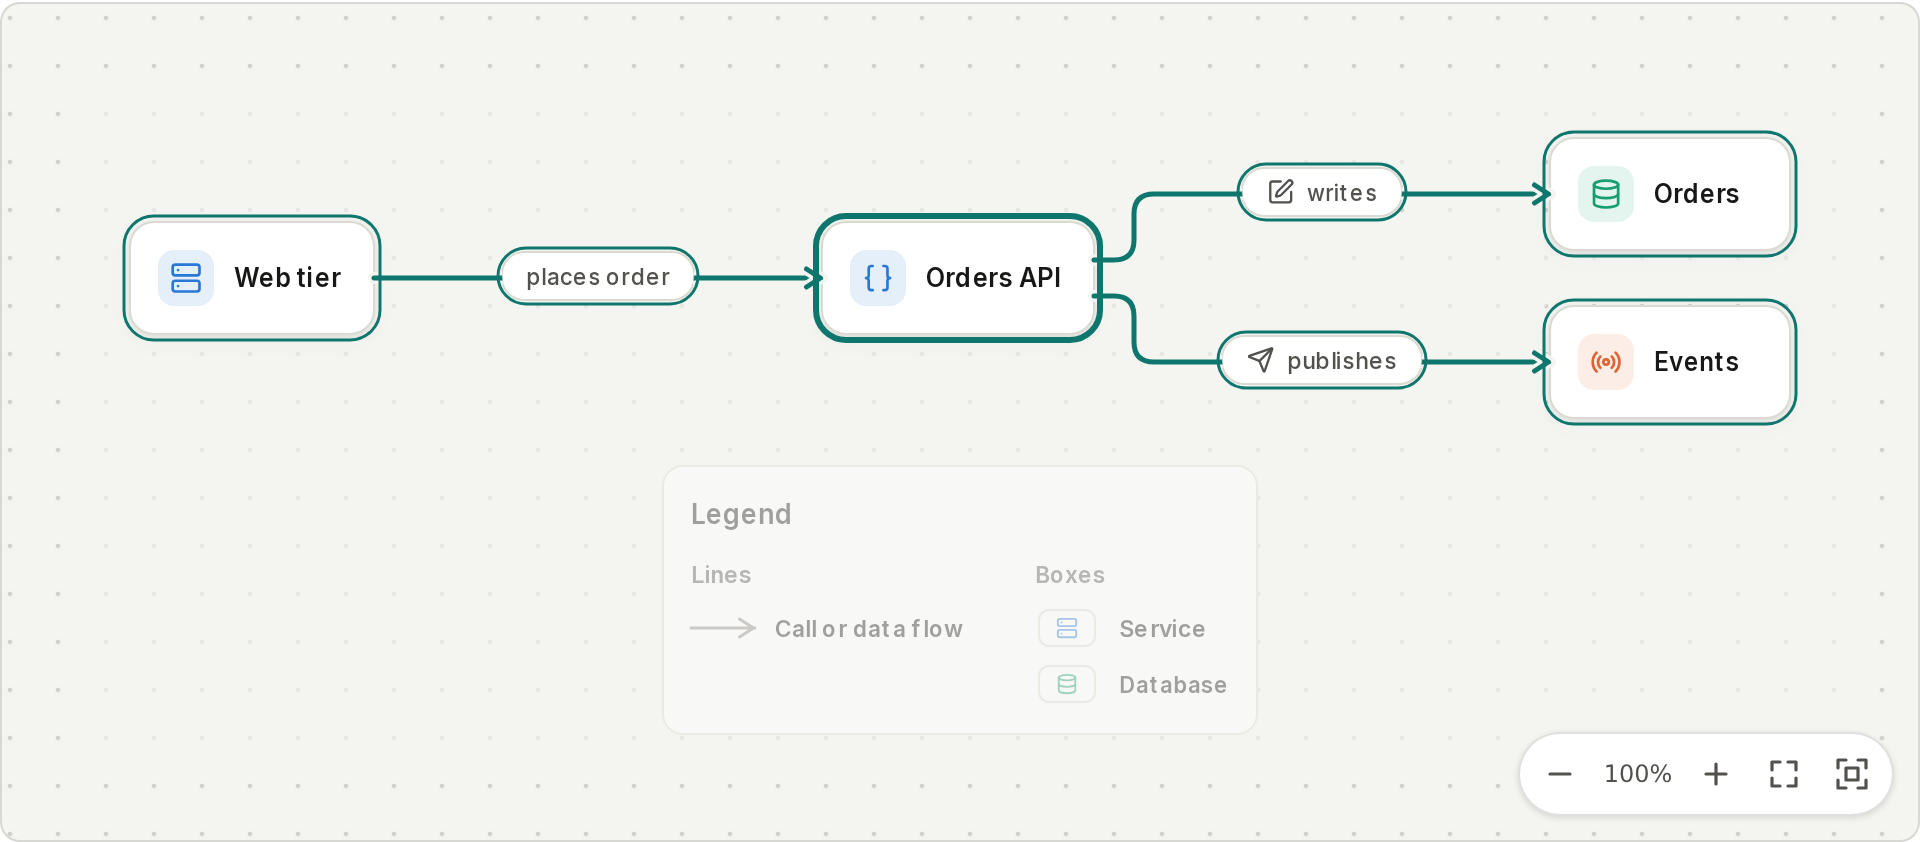
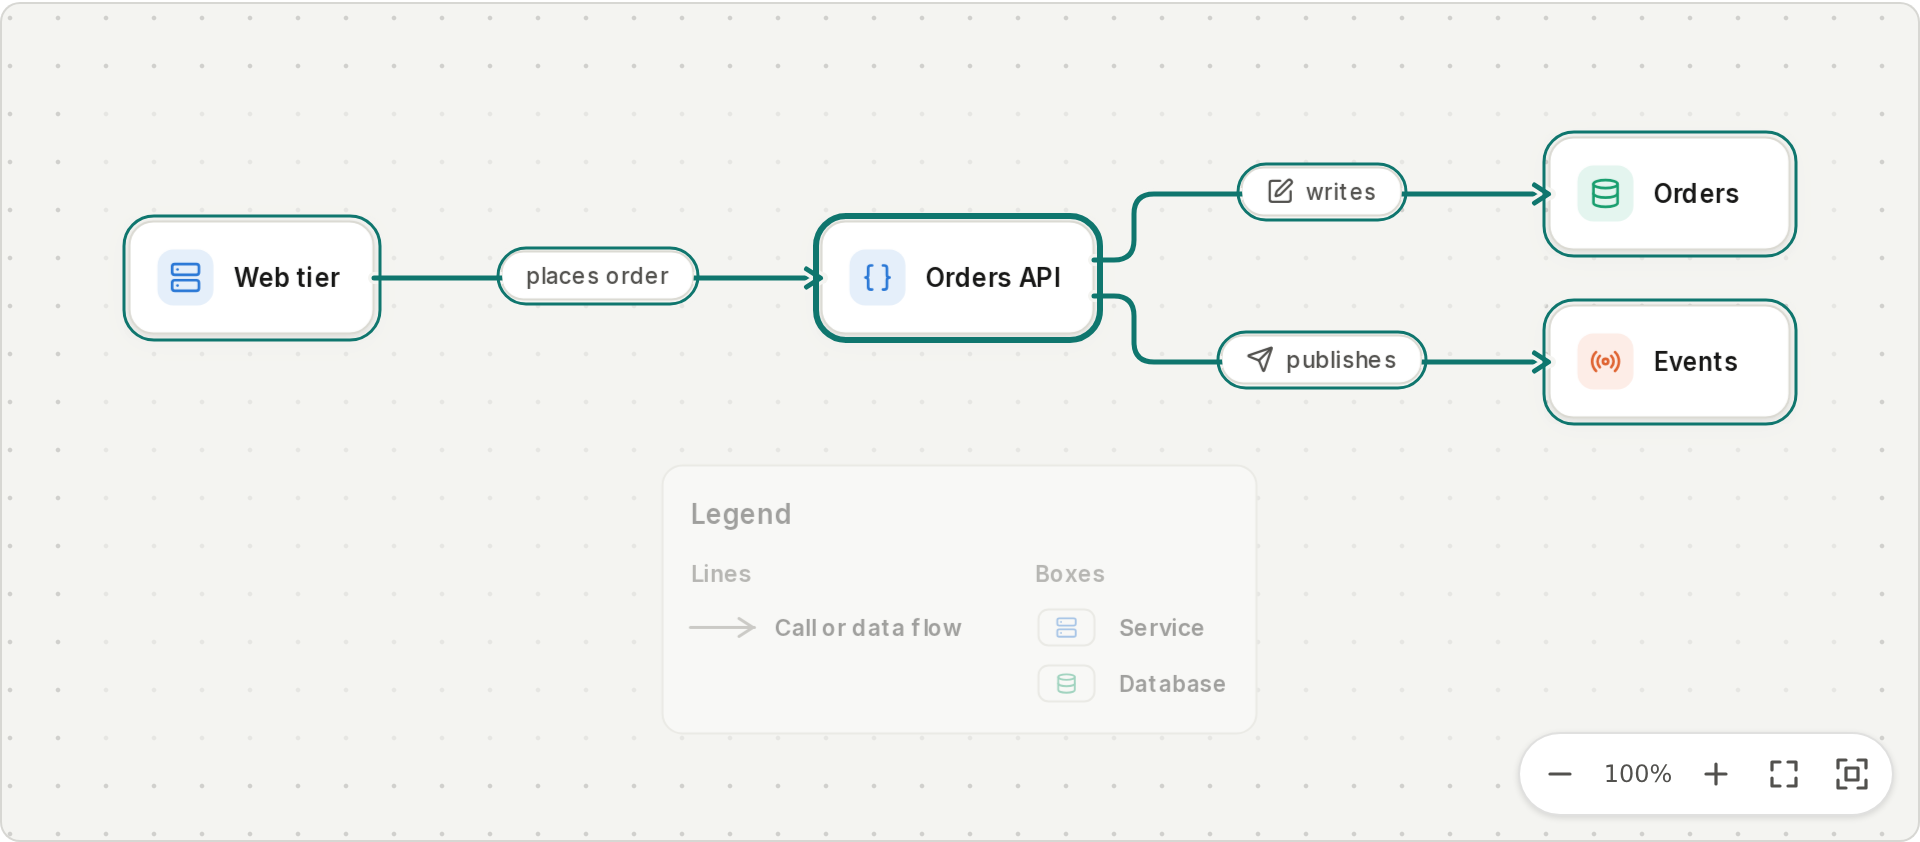
chore: draw the README screenshots with pnpm shots
scripts/shots.mjs serves the repository, opens the vanilla example in
Chromium in light and dark, traces the Orders API box, and writes the
viewer screenshots; it fails on any error the page logs. playwright-core
is a development dependency only.

diff --git a/README.md b/README.md
@@ -206,7 +206,7 @@ pnpm install
 pnpm check
 ```
 
-The diagrams in this README are Plotwork source in [`docs/diagrams/`](./docs/diagrams/), drawn by the command line. The repository follows the engineering standards in `.standards/`; see [CLAUDE.md](./CLAUDE.md).
+`pnpm shots` draws the screenshots above from the real component. The diagrams in this README are Plotwork source in [`docs/diagrams/`](./docs/diagrams/), drawn by the command line. The repository follows the engineering standards in `.standards/`; see [CLAUDE.md](./CLAUDE.md).
 
 ## Community
 

diff --git a/CLAUDE.md b/CLAUDE.md
@@ -21,6 +21,7 @@ The Plotwork SDK: packages that show and use Plotwork diagrams in other people's
 |---|---|
 | `pnpm check` | Type check and test every package, then the no-runtime-dependency guard. Run before you finish. |
 | `pnpm build` | Builds every package's `dist` with `tsc`. |
+| `pnpm shots` | Builds, then draws the README's screenshots of the viewer from the vanilla example in Chromium, light and dark (`scripts/shots.mjs`). Run after any change to how the viewer looks. |
 
 ## Rules that are easy to get wrong
 
